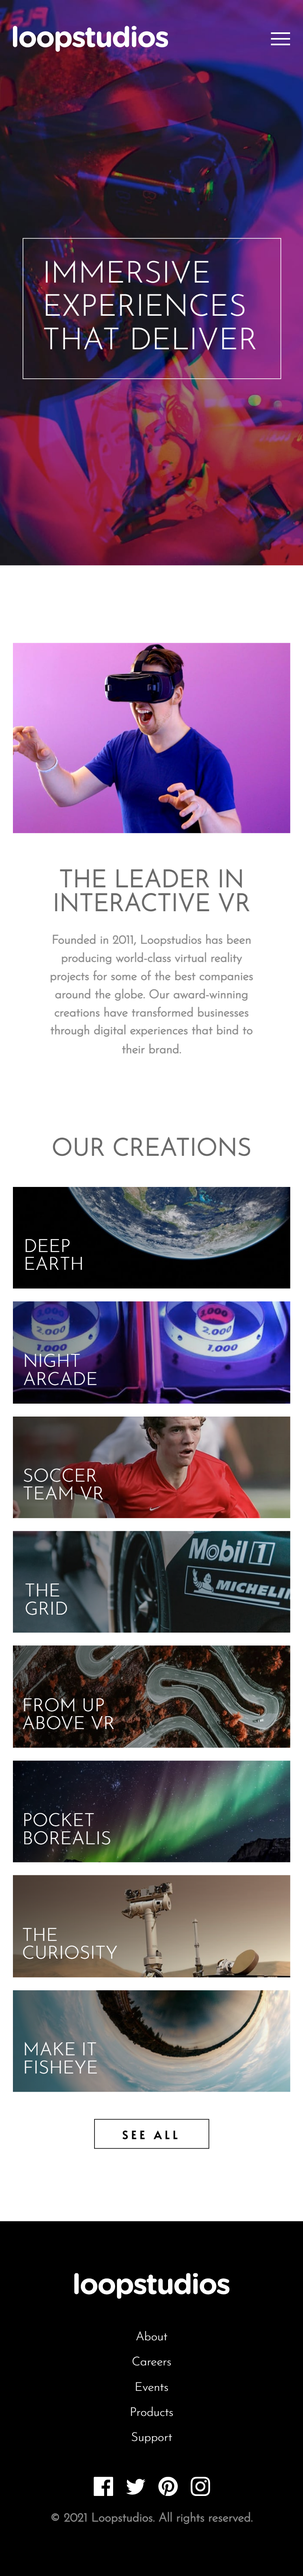
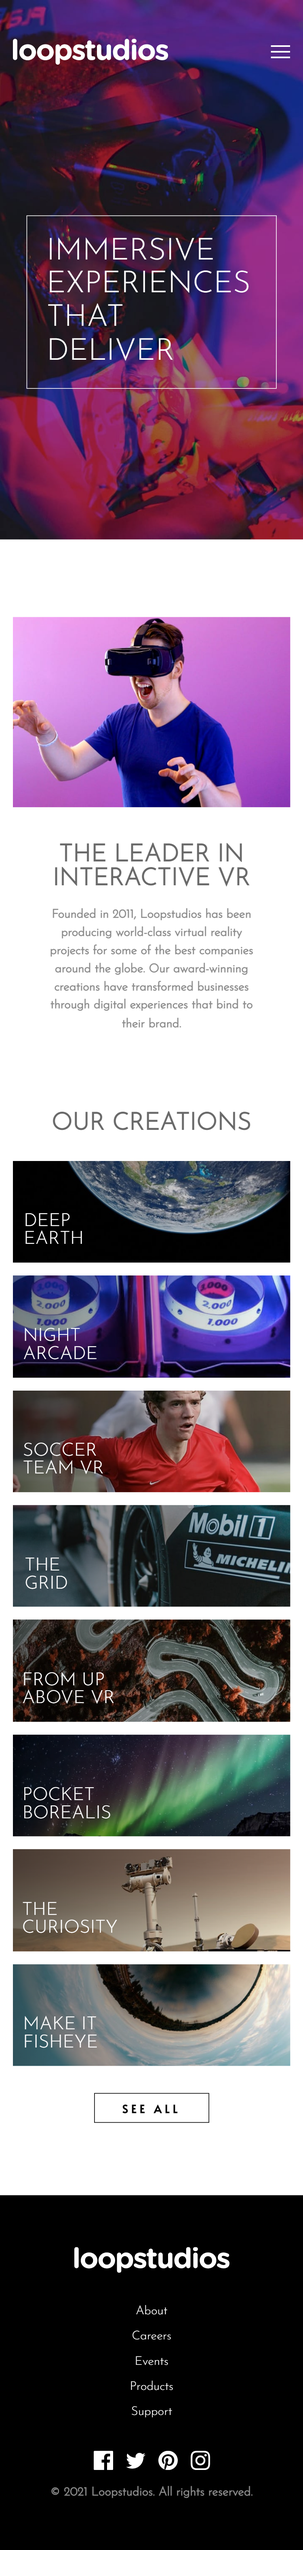
commit

diff --git a/css/style.css b/css/style.css
@@ -33,9 +33,9 @@ body {
 
 .hero {
   background-image: url("../images/mobile/image-hero.jpg");
-  min-height: 100vh;
   background-repeat: no-repeat;
   background-size: cover;
+  min-height: 100vh;
 }
 
 @media screen and (min-width: 968px) {
@@ -44,6 +44,7 @@ body {
     background: linear-gradient(rgba(0, 0, 0, 0.5), rgba(0, 0, 0, 0.5)), url("../images/desktop/image-hero.jpg");
     background-repeat: no-repeat;
     background-size: cover;
+    min-height: auto;
   }
 }
 
@@ -57,7 +58,7 @@ body {
   display: -webkit-box;
   display: -ms-flexbox;
   display: flex;
-  min-height: calc(100vh - 32px);
+  min-height: calc(100vh - 80px);
   -webkit-box-align: center;
       -ms-flex-align: center;
           align-items: center;
@@ -71,9 +72,11 @@ body {
 
 @media screen and (min-width: 968px) {
   .hero__content {
+    min-height: auto;
     -webkit-box-pack: start;
         -ms-flex-pack: start;
             justify-content: flex-start;
+    padding: 7rem 0;
   }
 }
 
@@ -82,7 +85,7 @@ body {
 }
 
 .hero__title {
-  max-width: 20rem;
+  max-width: 19.375rem;
   color: white;
   font-weight: 300;
   font-size: 2.5em;
@@ -92,11 +95,17 @@ body {
   padding: 1.5rem;
 }
 
+@media screen and (min-width: 468px) {
+  .hero__title {
+    max-width: 20rem;
+  }
+}
+
 @media screen and (min-width: 968px) {
   .hero__title {
-    max-width: 33.75rem;
-    font-size: 4em;
-    padding: 2.5rem 1.5rem 1.5rem;
+    max-width: 40.625rem;
+    font-size: 5em;
+    padding: 2.5rem 2.5rem 1.5rem;
   }
 }
 
@@ -114,7 +123,7 @@ body {
   max-width: 67.5rem;
   margin: 0 auto;
   padding: 0 1rem;
-  padding: 2rem 1rem 0;
+  padding: 3rem 1rem 0;
 }
 
 .nav {
@@ -185,7 +194,8 @@ body {
 
 @media screen and (min-width: 968px) {
   .nav__link {
-    font-size: 1em;
+    font-size: 1.1em;
+    font-weight: 600;
     text-transform: capitalize;
   }
   .nav__link::after {
@@ -240,7 +250,7 @@ body {
 
 @media screen and (min-width: 968px) {
   .about__wrapper {
-    padding: 8rem 1rem 5rem;
+    padding: 7rem 1rem 5rem;
   }
 }
 

diff --git a/scss/style.scss b/scss/style.scss
@@ -31,14 +31,15 @@ body{
 // ===== hero ===== \\
 .hero{
   background-image: url("../images/mobile/image-hero.jpg");
-  min-height: 100vh;
   background-repeat: no-repeat;
   background-size: cover;
+  min-height: 100vh;
 
   @include lg-min{
     background: linear-gradient(rgba(0,0,0,0.5), rgba(0,0,0,0.5)), url("../images/desktop/image-hero.jpg");
     background-repeat: no-repeat;
     background-size: cover;
+    min-height: auto;
   }
 
   &__wrapper{
@@ -46,14 +47,16 @@ body{
   }
   &__content{
     display: flex;
-    min-height: calc(100vh - 32px);
+    min-height: calc(100vh - 80px);
     align-items: center;
     justify-content: center;
     opacity: 1;
     transition: 0.3s;
 
     @include lg-min{
+      min-height: auto;
       justify-content: flex-start;
+      padding: 7rem 0;
     }
 
     &.active{
@@ -61,7 +64,7 @@ body{
     }
   }
   &__title{
-    max-width: rem(320);
+    max-width: rem(310);
     color: $white;
     font-weight: 300;
     font-size: 2.5em;
@@ -70,10 +73,13 @@ body{
     border: 1px solid $white;
     padding: 1.5rem;
 
+    @include md-min{
+      max-width: rem(320);
+    }
     @include lg-min{
-      max-width: rem(540);
-      font-size: 4em;
-      padding: 2.5rem 1.5rem 1.5rem;
+      max-width: rem(650);
+      font-size: 5em;
+      padding: 2.5rem 2.5rem 1.5rem;
     }
   }
   &__overlay.active{
@@ -89,7 +95,7 @@ body{
 
 .header{
   @include sectionWrapper;
-  padding: 2rem 1rem 0;
+  padding: 3rem 1rem 0;
 }
 .nav{
   display: flex;
@@ -132,7 +138,8 @@ body{
     font-weight: 300;
 
     @include lg-min{
-      font-size: 1em;
+      font-size: 1.1em;
+      font-weight: 600;
       text-transform: capitalize;
 
       &::after{
@@ -183,7 +190,7 @@ body{
     padding: 6rem 1rem 4rem; // override
 
     @include lg-min{
-      padding: 8rem 1rem 5rem;
+      padding: 7rem 1rem 5rem;
     }
   }
   &__content{

diff --git a/index.html b/index.html
@@ -44,6 +44,8 @@
             <h1 class="hero__title title">
               Immersive experiences that deliver
             </h1>
+            <!-- html accessbility issue-->
+            <h2 hidden></h2>
           </div>
         </div>
       </div>

diff --git a/scss/_mixins.scss b/scss/_mixins.scss
@@ -11,3 +11,9 @@
     @content;
   }
 }
+
+@mixin md-min{
+  @media screen and (min-width: $screen-md-min){
+    @content;
+  }
+}

diff --git a/scss/_config.scss b/scss/_config.scss
@@ -11,3 +11,5 @@ $very-dark-gray: hsl(0, 0%, 41%);
 
 // media queries
 $screen-lg-min: 968px;
+
+$screen-md-min: 468px;

diff --git a/README.md b/README.md
@@ -25,12 +25,12 @@ Users should be able to:
 
 ### Screenshot
 
-![](screenshots/desktop-design.png)
+![](screenshots/mobile-design.png)
 
 ### Links
 
 - Solution URL: [Add solution URL here](https://your-solution-url.com)
-- Live Site URL: [Add live site URL here](https://your-live-site-url.com)
+- Live Site URL: https://pyaethein.github.io/Loopstudios-Landing-Page/
 
 ## My process
 
@@ -48,6 +48,7 @@ Users should be able to:
 
 - using `mix-blend-mode: multiplay;` on child element to apply overlaying `linear-gradient` from parent element and `display: block;` to take up entire space in order for `linear-gradient` to work
 - removing nav menu upon clicking nav links 
+- making desktop hero background image responsive using `min-height: auto` on parent element and `padding: 7rem 0` on child element
 
 To see how you can add code snippets, see below:
 
@@ -65,6 +66,13 @@ To see how you can add code snippets, see below:
   mix-blend-mode: multiply;
   display: block;
 }
+/* making desktop hero bg responsive */
+.hero{
+  min-height: auto;
+}
+.hero__content{
+  padding: 7rem 0;
+}
 ```
 ```js
 // removing menu upon clicking links
@@ -78,7 +86,7 @@ navLinks.forEach(n => n.addEventListener('click', () => {
 
 ### Continued development
 
-I still need more practise on css `linear-gradient` property.
+Looking forward for harder challenges focusing more on `linear-gradient` and responsive images.
 
 ## Author
 
